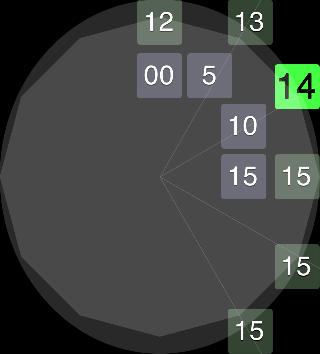
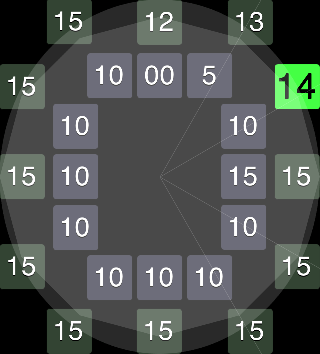
clockface

Changed region(s): [[0.0, 0.0, 0.8438, 1.0]]

diff --git a/calculator.css b/calculator.css
@@ -27,19 +27,41 @@ a { color: #8af; }
 #time-panel { overflow: hidden; }
 #time-panel .start-time { font-size: 65px; width: 165px; margin: 10px 82px 15px auto; text-align: right; }
 
-#clockface { position: relative; width: 320px; height: 354px; background: url(model.png); }
+#clockface { position: relative; width: 320px; height: 354px; }
 #clockface .button { position: absolute; overflow: hidden; width: 51px; height: 51px; }
 #clockface .button .digit { display: block; width: 45px; height: 45px; margin: 3px; background-color: #444; border-radius: 20px; text-align: center; font-size: 27px; line-height: 43px; color: #fff; text-shadow: 0 1px #000; cursor: pointer; }
 #clockface .button .digit.teen { text-indent: -2px; }
 #clockface .button.selected .digit { color: #000; font-size: 36px; }
-#clockface .button.n0 { left: 134px; top: -3px; }
-#clockface .button.n1 { left: 225px; top: -3px; }
-#clockface .button.n2 { left: 272px; top: 61px; }
+
+#clockface .hours .button.n0  { left:  134px; top: -3px; }
+#clockface .hours .button.n1  { left:  225px; top: -3px; }
+#clockface .hours .button.n2  { left:  272px; top:  61px; }
+#clockface .hours .button.n3  { left:  272px; top:  151px; }
+#clockface .hours .button.n4  { left:  272px; top:  241px; }
+#clockface .hours .button.n5  { left:  225px; top:  306px; }
+#clockface .hours .button.n6  { left:  134px; top:  306px; }
+#clockface .hours .button.n7  { left:  44px;  top:  306px; }
+#clockface .hours .button.n8  { left: -3px;   top:  241px; }
+#clockface .hours .button.n9  { left: -3px;   top:  151px; }
+#clockface .hours .button.n10 { left: -3px;   top:  61px; }
+#clockface .hours .button.n11 { left:  44px;  top: -3px; }
+
+#clockface .minutes .button.n0  { left: 134px; top: 50px; }
+#clockface .minutes .button.n5  { left: 184px; top: 50px; }
+#clockface .minutes .button.n10 { left: 218px; top: 101px; }
+#clockface .minutes .button.n15 { left: 218px; top: 151px; }
+#clockface .minutes .button.n20 { left: 218px; top: 202px; }
+#clockface .minutes .button.n25 { left: 184px; top: 252px; }
+#clockface .minutes .button.n30 { left: 134px; top: 252px; }
+#clockface .minutes .button.n35 { left:  84px; top: 252px; }
+#clockface .minutes .button.n40 { left:  50px; top: 202px; }
+#clockface .minutes .button.n45 { left:  50px; top: 151px; }
+#clockface .minutes .button.n50 { left:  50px; top: 101px; }
+#clockface .minutes .button.n55 { left:  84px; top:  50px; }
 
 
 #clockface .hours .button .digit { background-color: #343; }
 #clockface .hours .button.selected .digit { background-color: #4f4; color: #000; }
-#clockface .minutes { display: none; }
 #clockface .minutes .button .digit { background-color: #334; }
 #clockface .minutes .button.selected .digit { background-color: #68f; color: #000; }
 

diff --git a/index.html b/index.html
@@ -32,18 +32,18 @@
 	</ul>
 	
 	<ul class="minutes">
-		<li class="button" data-value="0"><span class="digit">0</span>
-		<li class="button" data-value="5"><span class="digit">5</span>
-		<li class="button" data-value="10"><span class="digit">10</span>
-		<li class="button" data-value="15"><span class="digit">15</span>
-		<li class="button" data-value="20"><span class="digit">20</span>
-		<li class="button" data-value="25"><span class="digit">25</span>
-		<li class="button" data-value="30"><span class="digit">30</span>
-		<li class="button" data-value="35"><span class="digit">35</span>
-		<li class="button" data-value="40"><span class="digit">40</span>
-		<li class="button" data-value="45"><span class="digit">45</span>
-		<li class="button" data-value="50"><span class="digit">50</span>
-		<li class="button" data-value="55"><span class="digit">55</span>
+		<li class="button n0"  data-value="0"><span class="digit">0</span>
+		<li class="button n5"  data-value="5"><span class="digit">5</span>
+		<li class="button n10" data-value="10"><span class="digit">10</span>
+		<li class="button n15" data-value="15"><span class="digit">15</span>
+		<li class="button n20" data-value="20"><span class="digit">20</span>
+		<li class="button n25" data-value="25"><span class="digit">25</span>
+		<li class="button n30" data-value="30"><span class="digit">30</span>
+		<li class="button n35" data-value="35"><span class="digit">35</span>
+		<li class="button n40" data-value="40"><span class="digit">40</span>
+		<li class="button n45" data-value="45"><span class="digit">45</span>
+		<li class="button n50" data-value="50"><span class="digit">50</span>
+		<li class="button n55" data-value="55"><span class="digit">55</span>
 	</ul>
 </div>
 
